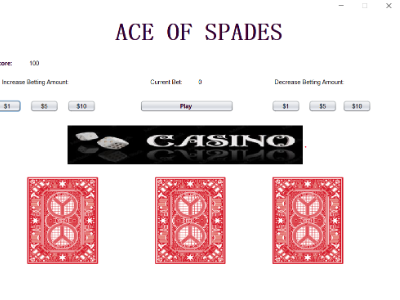
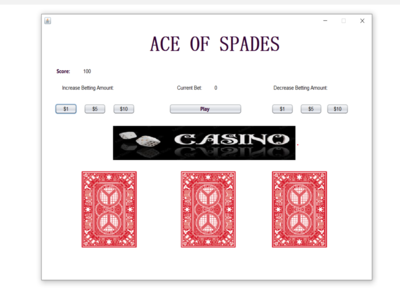
Adjusted project images size to 400X300 px so images stay aligned on different screen sizes

diff --git a/style.css b/style.css
@@ -73,7 +73,9 @@ html {
 .flexItems {
   flex: 1fr;
   border: 1px solid black !important;
-  height: 60%;
+  height: auto;
+  /* width: 400px;
+  height: 300px; */
 }
 .imageText {
   flex: 1fr;
